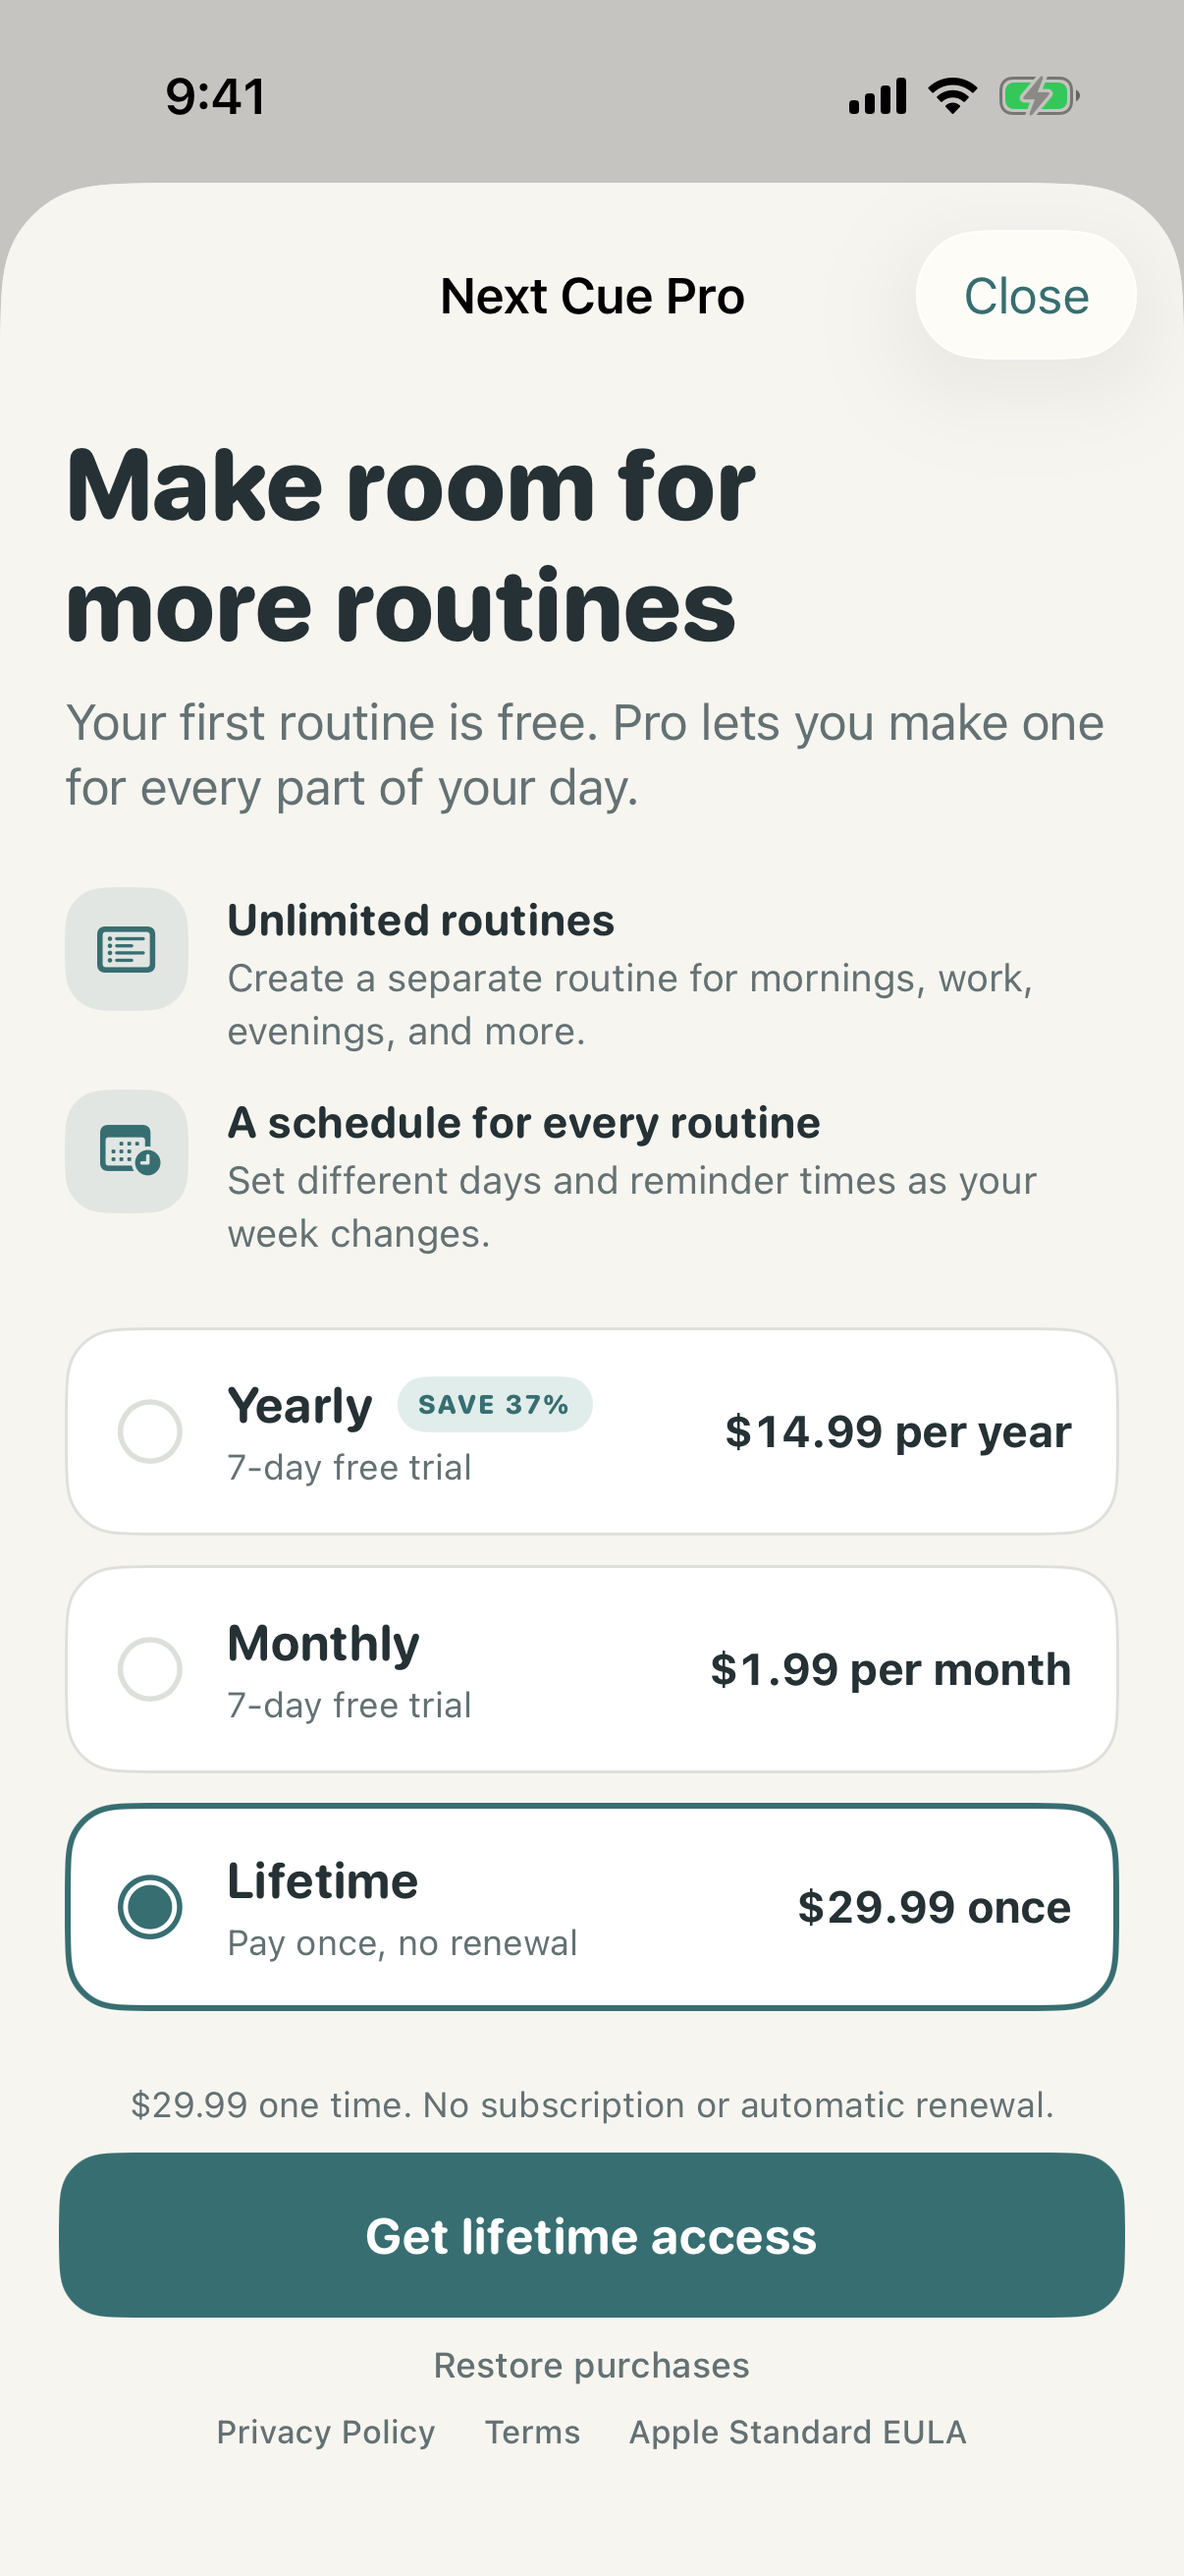
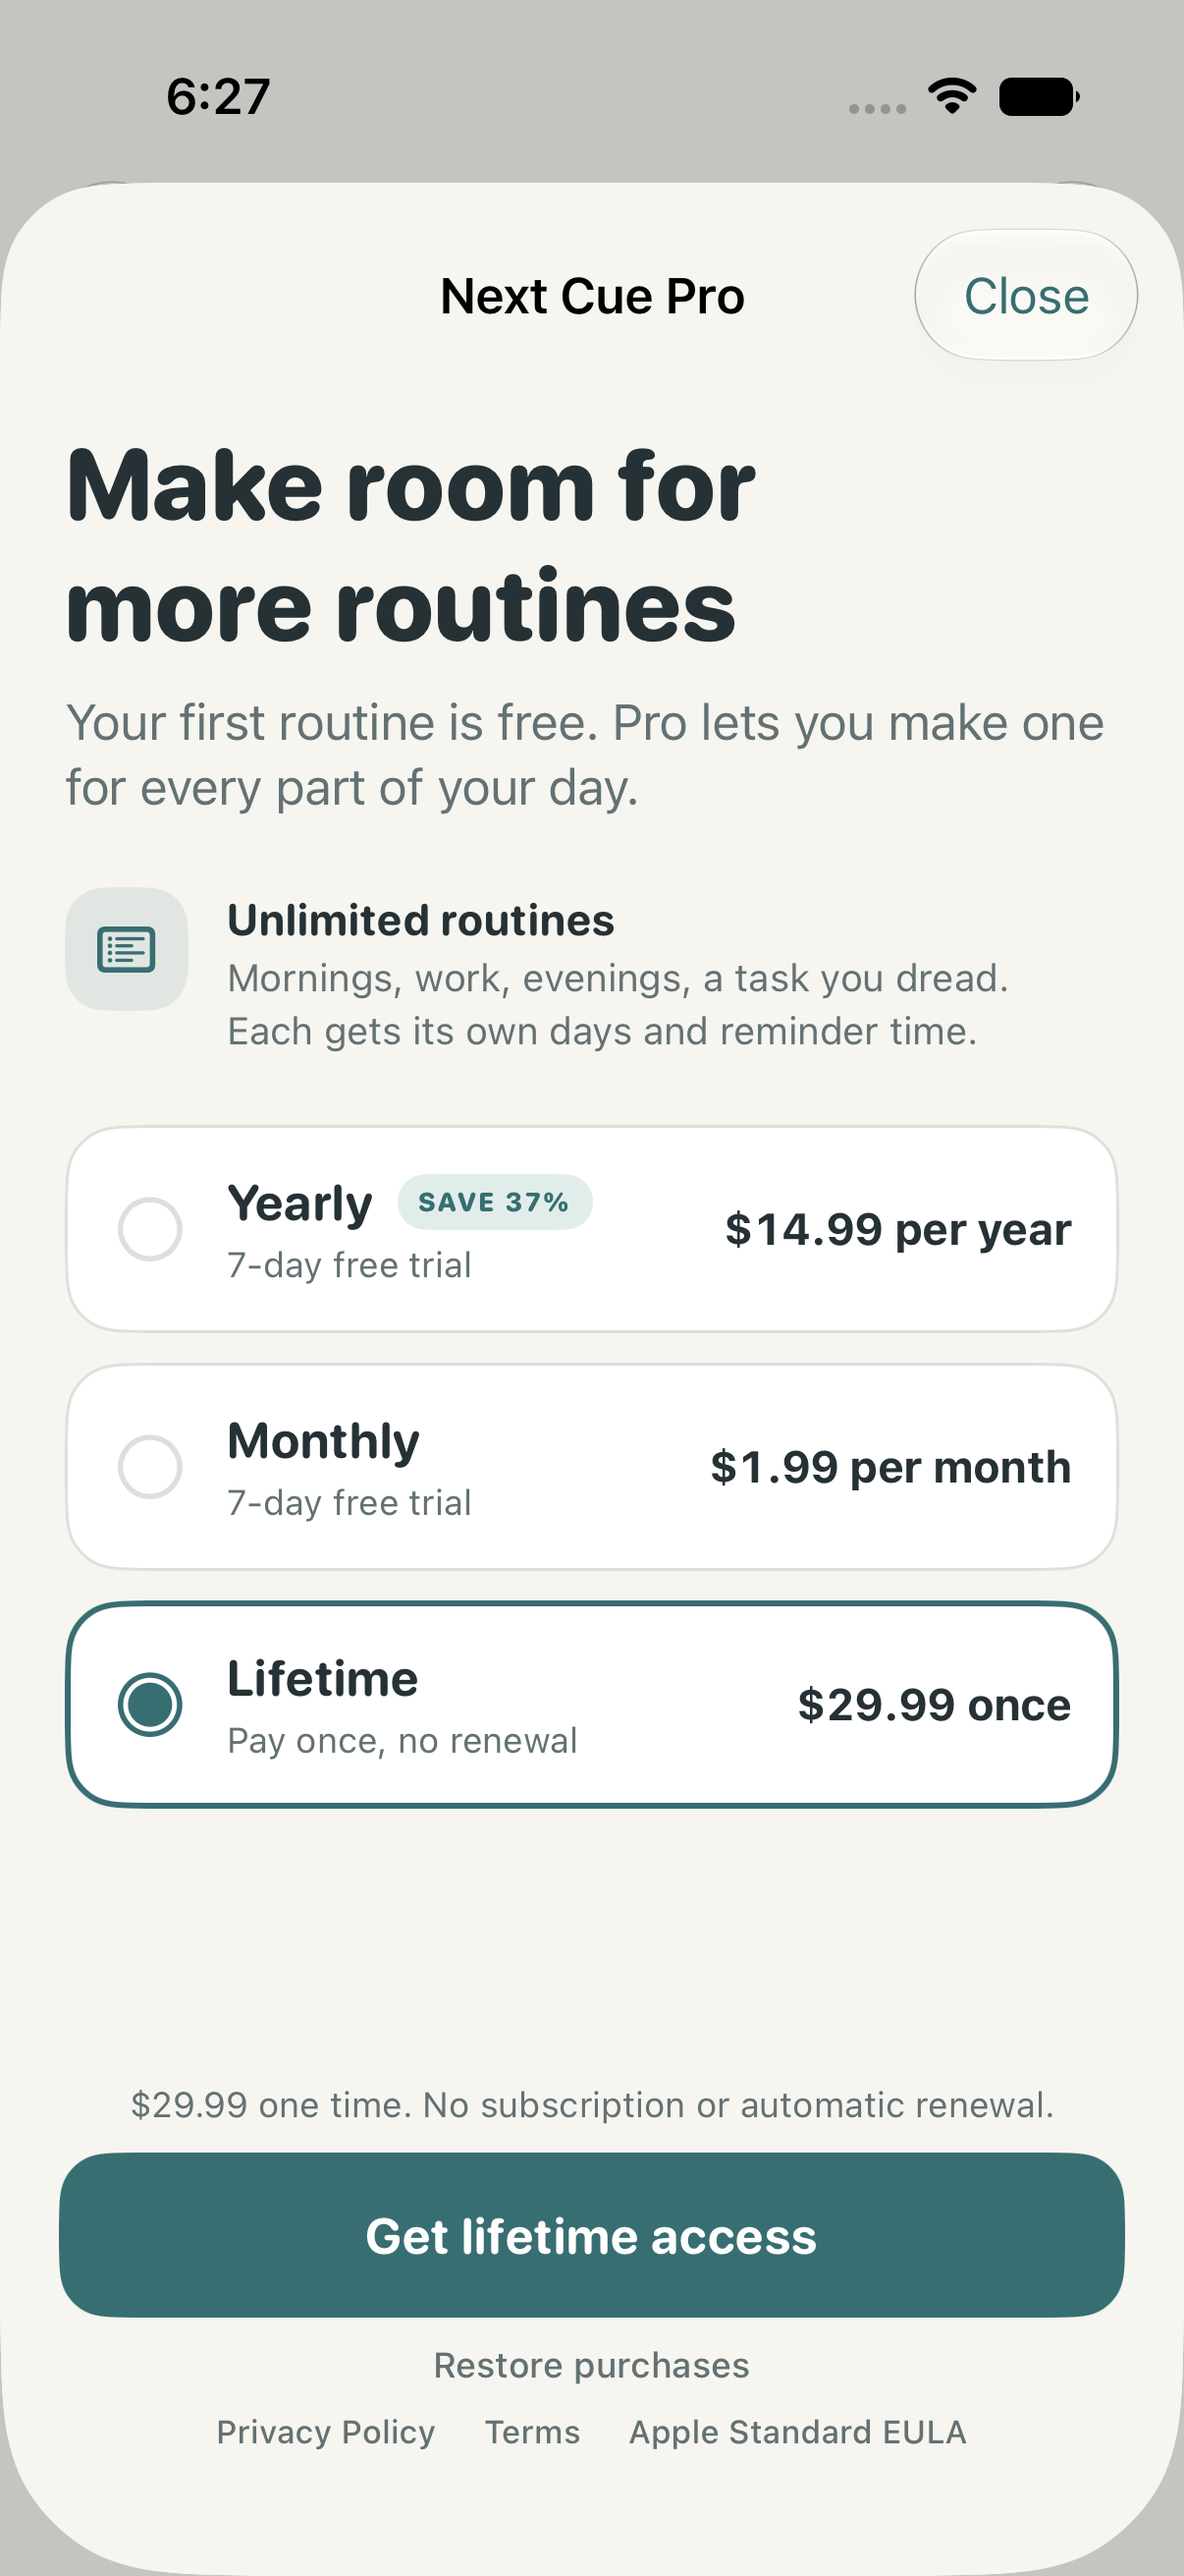
fix: keep undo toast below run progress, fit all plans on the paywall, open App Store review from Settings

diff --git a/NextCue/Views/RoutineRunView.swift b/NextCue/Views/RoutineRunView.swift
@@ -16,6 +16,7 @@ struct RoutineRunView: View {
     @State private var showNewRoutine = false
     @State private var wantsNewRoutine = false
     @State private var toast: RunToast?
+    @State private var headerHeight: CGFloat = 0
     @State private var doneCount = 0
     @State private var moveCount = 0
     /// The step shrunk to its smallest start. Matching by ID clears it as soon as the step changes.
@@ -135,6 +136,7 @@ struct RoutineRunView: View {
                 ScrollView {
                     VStack(alignment: .leading, spacing: 0) {
                         runHeader(run)
+                            .onGeometryChange(for: CGFloat.self) { $0.size.height } action: { headerHeight = $0 }
                         Spacer(minLength: 32)
                         stepFocus(run: run, step: step)
                         Spacer(minLength: 32)
@@ -144,18 +146,18 @@ struct RoutineRunView: View {
                     .padding(.top, 6)
                     .padding(.bottom, 14)
                     .frame(maxWidth: .infinity, minHeight: proxy.size.height, alignment: .top)
+                    // The toast sits just below the progress header, so it hides neither the progress nor the next step card.
+                    .overlay(alignment: .top) {
+                        if let toast {
+                            ToastView(toast: toast) { perform(.back) }
+                                .padding(.top, 6 + headerHeight + 14)
+                                .transition(.move(edge: .top).combined(with: .opacity))
+                        }
+                    }
                 }
                 .scrollBounceBehavior(.basedOnSize)
             }
             .safeAreaInset(edge: .bottom, spacing: 0) { controls(run) }
-            // The toast sits at the top so it never hides the next step card.
-            .overlay(alignment: .top) {
-                if let toast {
-                    ToastView(toast: toast) { perform(.back) }
-                        .padding(.top, 4)
-                        .transition(.move(edge: .top).combined(with: .opacity))
-                }
-            }
         } else {
             VStack(spacing: 18) {
                 Text("You’ve reached the end")

diff --git a/NextCue/Views/SettingsView.swift b/NextCue/Views/SettingsView.swift
@@ -8,7 +8,6 @@ struct SettingsView: View {
     @EnvironmentObject private var purchases: StoreService
     @Environment(\.dismiss) private var dismiss
     @Environment(\.openURL) private var openURL
-    @Environment(\.requestReview) private var requestReview
 
     @State private var notificationStatus: UNAuthorizationStatus = .notDetermined
     @State private var showPaywall = false
@@ -152,7 +151,7 @@ struct SettingsView: View {
 
     private var feedbackSection: some View {
         Section("Feedback") {
-            Button("Rate Next Cue") { requestReview() }
+            Link("Rate Next Cue", destination: NextCueLinks.writeReview)
             Link("Send feedback", destination: NextCueLinks.feedback)
             Link("Help and support", destination: NextCueLinks.support)
         }
@@ -198,5 +197,6 @@ enum NextCueLinks {
     static let terms = URL(string: "https://jackwallner.github.io/adhd/terms.html")!
     static let eula = URL(string: "https://www.apple.com/legal/internet-services/itunes/dev/stdeula/")!
     static let appleSubscriptions = URL(string: "https://apps.apple.com/account/subscriptions")!
+    static let writeReview = URL(string: "https://apps.apple.com/app/id6815023447?action=write-review")!
     static let feedback = URL(string: "mailto:jackwallner@gmail.com?subject=Next%20Cue%20feedback")!
 }

diff --git a/NextCue/Views/NextCuePaywallView.swift b/NextCue/Views/NextCuePaywallView.swift
@@ -41,10 +41,8 @@ struct NextCuePaywallView: View {
                             .fixedSize(horizontal: false, vertical: true)
                     }
 
-                    VStack(spacing: 12) {
-                        NextCueBenefit(symbol: "list.bullet.rectangle", title: "Unlimited routines", detail: "Create a separate routine for mornings, work, evenings, and more.")
-                        NextCueBenefit(symbol: "calendar.badge.clock", title: "A schedule for every routine", detail: "Set different days and reminder times as your week changes.")
-                    }
+                    // One benefit row keeps all three plans on screen above the purchase footer.
+                    NextCueBenefit(symbol: "list.bullet.rectangle", title: "Unlimited routines", detail: "Mornings, work, evenings, a task you dread. Each gets its own days and reminder time.")
 
                     VStack(spacing: 10) {
                         if let yearly = purchases.yearly {
